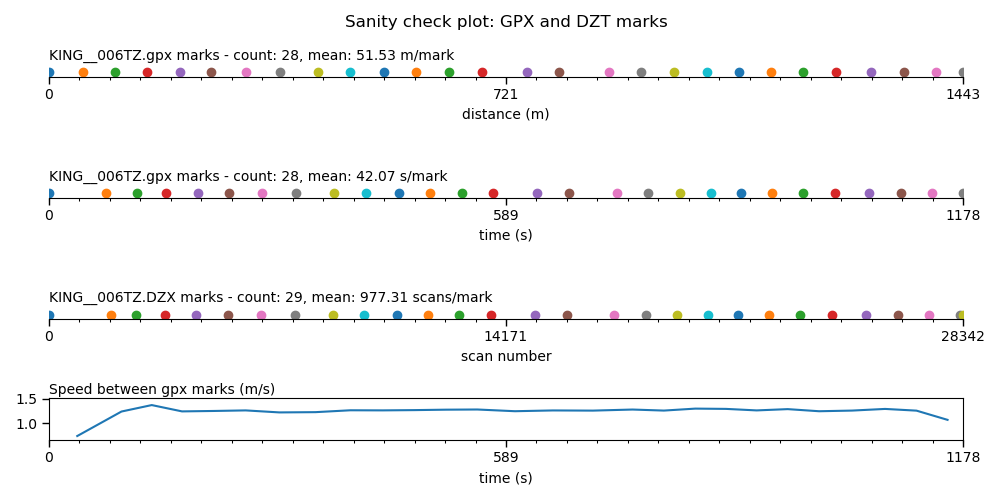
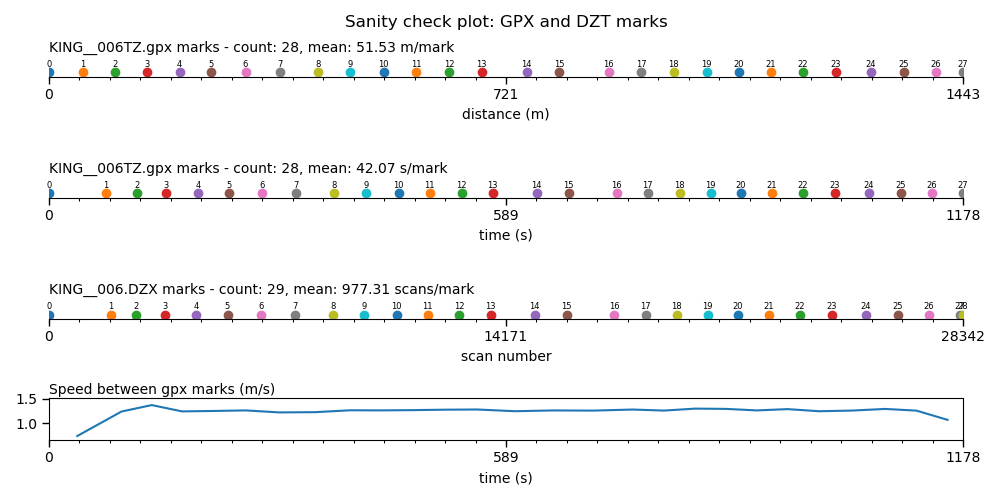
mark numbering

diff --git a/gpx2dzg/plot.py b/gpx2dzg/plot.py
@@ -30,7 +30,7 @@ def setup(ax, xmax=5):
     ax.patch.set_alpha(0.0)
 
 
-def sanityplot(gpx=None, gpxname='GPX', dzx=None, dzxname='DZX'):
+def sanityplot(gpx=None, gpxname='GPX', dzx=None, dzxnum=None, dzxname='DZX'):
     """Creates two number line plots for comparison of mark location and scan number.
 
     Parameters
@@ -41,13 +41,15 @@ def sanityplot(gpx=None, gpxname='GPX', dzx=None, dzxname='DZX'):
         The name of the GPX file being read. This will be used as axis label text.
     dzx : list
         The list of DZX marks to plot. Each item in the list is a scan number at which a mark was recorded.
+    origdzxnum : list
+        A list of the original DZX marks to use as labels, intended to make removing with `-r <num>` easier.
     gpxname : str
         The name of the DZX file being read. This will be used as axis label text.
 
     Returns
     -------
     plot instance
-        Creates a matplotlib figure with two axes showing number lines with mark locaitons plotted on each.
+        Creates a matplotlib figure with two axes showing number lines with mark locations plotted on each.
     """
     n = 1
     name = [gpxname, gpxname, dzxname]
@@ -62,16 +64,22 @@ def sanityplot(gpx=None, gpxname='GPX', dzx=None, dzxname='DZX'):
         setup(ax, xmax=data[-1])
         ax.xaxis.set_major_locator(ticker.LinearLocator(3))
         ax.xaxis.set_minor_locator(ticker.LinearLocator(31))
-        ax.text(0.0, 0.4, "%s marks - count: %s, mean: %.2f %s" % (name[n-1], len(data), data[-1]/len(data), units[n-1]),
+        ax.text(0.0, 0.6, "%s marks - count: %s, mean: %.2f %s" % (name[n-1], len(data), data[-1]/len(data), units[n-1]),
                 fontsize=10, transform=ax.transAxes)
         plt.xlabel(label[n-1])
         plt.title(title[n-1])
+        i = 0
         for x in data:
             ax.scatter(x,0.1)
+            if n < 3:
+                ax.annotate(str(i), xy=(x,0.1), xytext=(-2*(len(str(i))), 4), textcoords='offset points', fontsize=6)
+            else:
+                ax.annotate(str(dzxnum[i]), xy=(x,0.1), xytext=(-2*(len(str(i))), 4), textcoords='offset points', fontsize=6)
+            i += 1
         n += 1
 
     # this is messy but effective
-    ax = plt.subplot(4, 1, 4)
+    ax = plt.subplot(4, 1, n)
     ax.xaxis.set_ticks_position('bottom')
     ax.tick_params(which='major', width=1.00)
     ax.tick_params(which='major', length=5)

diff --git a/gpx2dzg/gpx2dzg.py b/gpx2dzg/gpx2dzg.py
@@ -47,8 +47,10 @@ def convert(dzx='', gpx='', write=False, plot=False, drops=[]):
     gpxmarks = io.readgpx(gpx=gpx)
     fx.printmsg('found %s gpx marks' % len(gpxmarks.waypoints))
 
+    origdzxnum = list(range(0,len(dzxmarks)))
     if len(drops) > 0:
         fx.drop(marks=dzxmarks, drops=drops)
+        fx.drop(marks=origdzxnum, drops=drops)
 
     if len(gpxmarks.waypoints) == len(dzxmarks):
         fx.printmsg('mark counts match!')
@@ -69,7 +71,7 @@ def convert(dzx='', gpx='', write=False, plot=False, drops=[]):
         success = False
 
     if plot:
-        px.sanityplot(dzx=dzxmarks, dzxname=dzx, gpx=gpxmarks, gpxname=gpx)
+        px.sanityplot(dzx=dzxmarks, dzxnum=origdzxnum, dzxname=dzx, gpx=gpxmarks, gpxname=gpx)
 
     return success
 

diff --git a/CHANGES.md b/CHANGES.md
@@ -5,6 +5,8 @@
 - changed name of decimal degree conversion function from `dd2dms` to `dd2ddm` to reflect the change in purpose to address [#1](https://github.com/iannesbitt/gpx2dzg/issues/1)
 - added GGA sentence output to accompany RMC, with a calculated egm96 geoid height!
 - added [MANIFEST](https://github.com/iannesbitt/gpx2dzg/blob/master/MANIFEST.in), which includes a small and simple 15-arcminute egm96 geoid model
+- added mark numbering for ease of mark removal using `-r`, which stays consistent even if marks are removed
+- updated README plots to reflect numbering change
 
 ## changes since 0.0.2
 - added a subplot depicting GPX marks vs time
